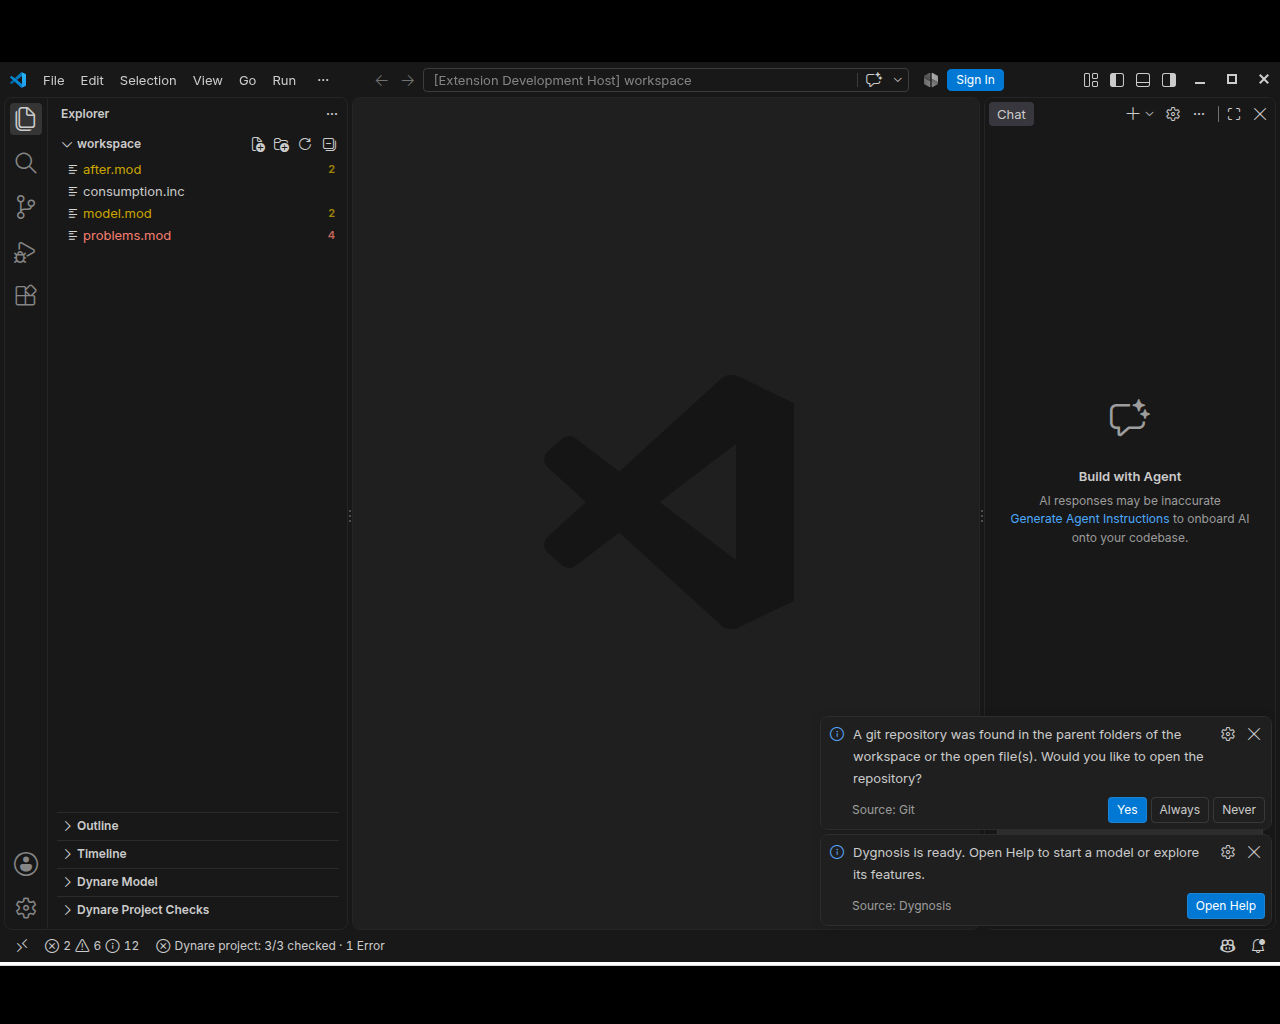
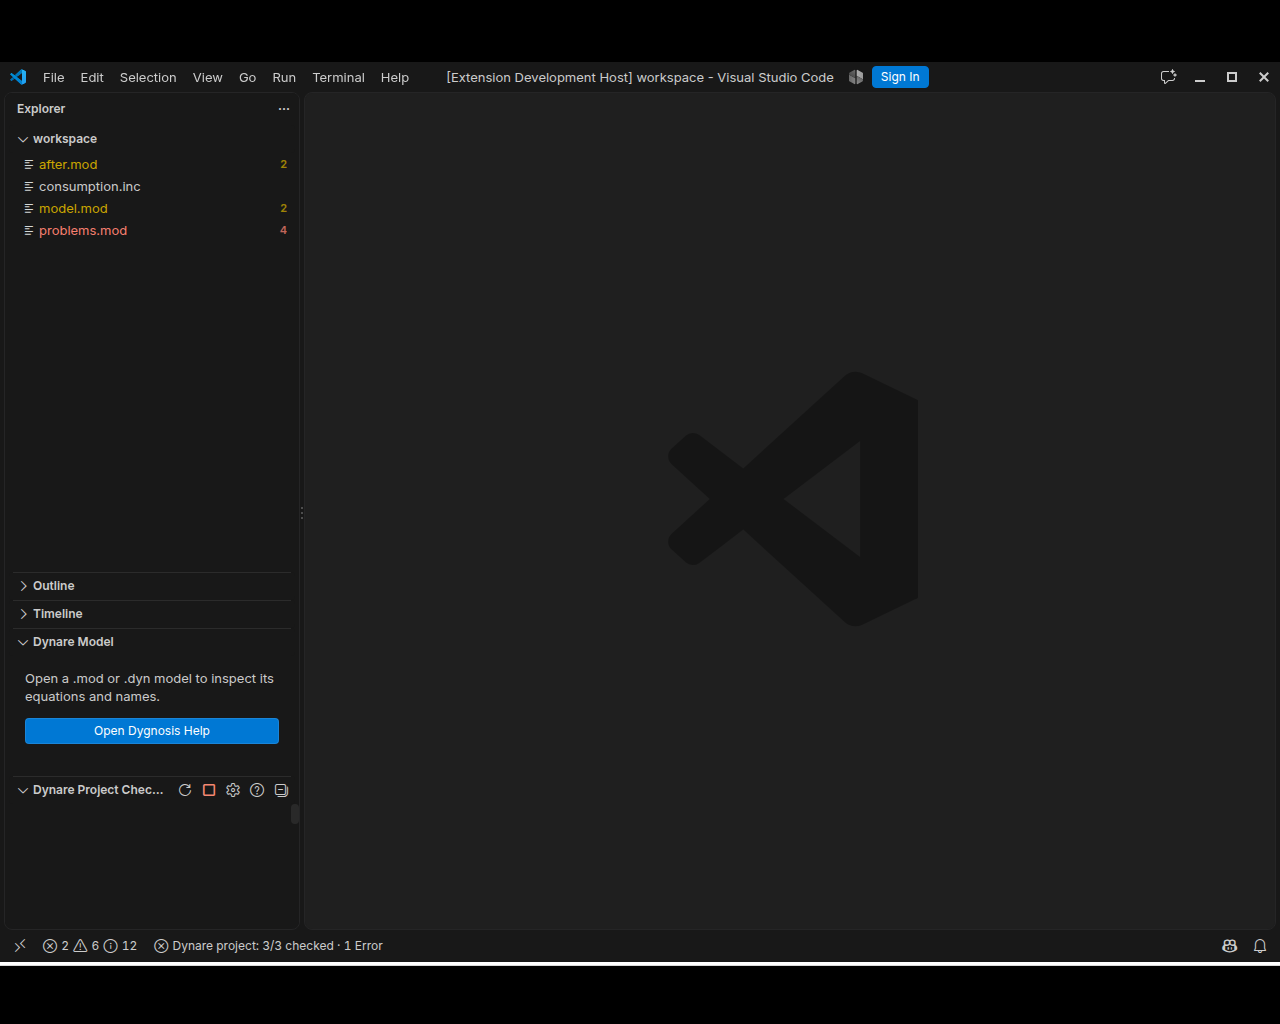
Update Help screenshots to tighter crops and elbow-arrow callouts.

diff --git a/help/agents.md b/help/agents.md
@@ -5,11 +5,10 @@ Registration does not require an open model or a running language server.
 It provides the same fifteen analysis/editing tools as the standalone MCP
 transport. Model inputs and results remain engine data.
 
-![Project checks, model view and Dygnosis readiness in VS Code](assets/agents-mcp.png)
+![MCP server list showing the Dygnosis server](assets/agents-mcp.png)
 
-1. **Dynare model** and **Dynare project checks** stay available while you connect an agent.
-2. **Dynare project checks** shows background coverage for saved roots in the workspace folder.
-3. The status bar reports checked roots; use **MCP: List Servers** from the Command Palette to manage the Dygnosis server.
+1. **MCP: List Servers** opens Select an MCP Server.
+2. **Dygnosis** is the server the extension registers. It stays stopped until an agent starts it.
 
 Use the Command Palette's **MCP: List Servers** to manage the server and view
 its Output. In a chat that supports MCP, the tool picker controls which tools

diff --git a/help/get-started.md b/help/get-started.md
@@ -25,7 +25,7 @@ the invitation does not remove these entrances.
 
 1. **Dynare model** shows a welcome row with **Open Dygnosis Help** before any model opens.
 2. **Dynare project checks** appears in every workspace folder and links to project-check topics.
-3. The first-install notification offers **Open Help** once; dismissal persists for later windows.
+3. The question-mark action on the Dynare project checks view title opens Help.
 
 Loose and untitled Dynare files receive ordinary editor analysis. Save a model
 to establish its disk base for includes. An `.inc` file needs a known model
